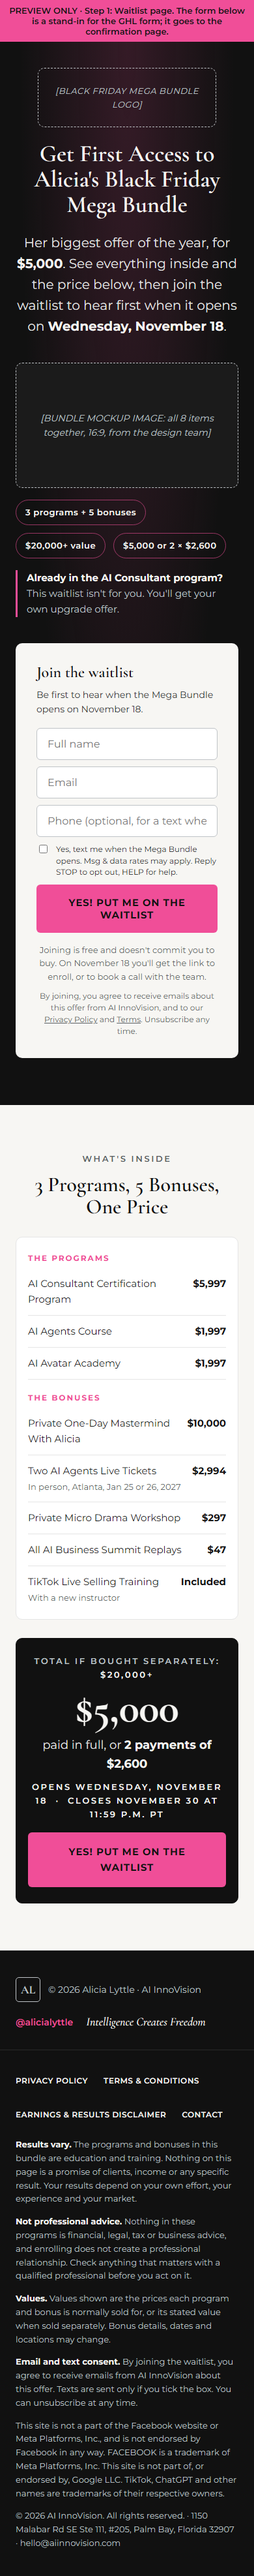
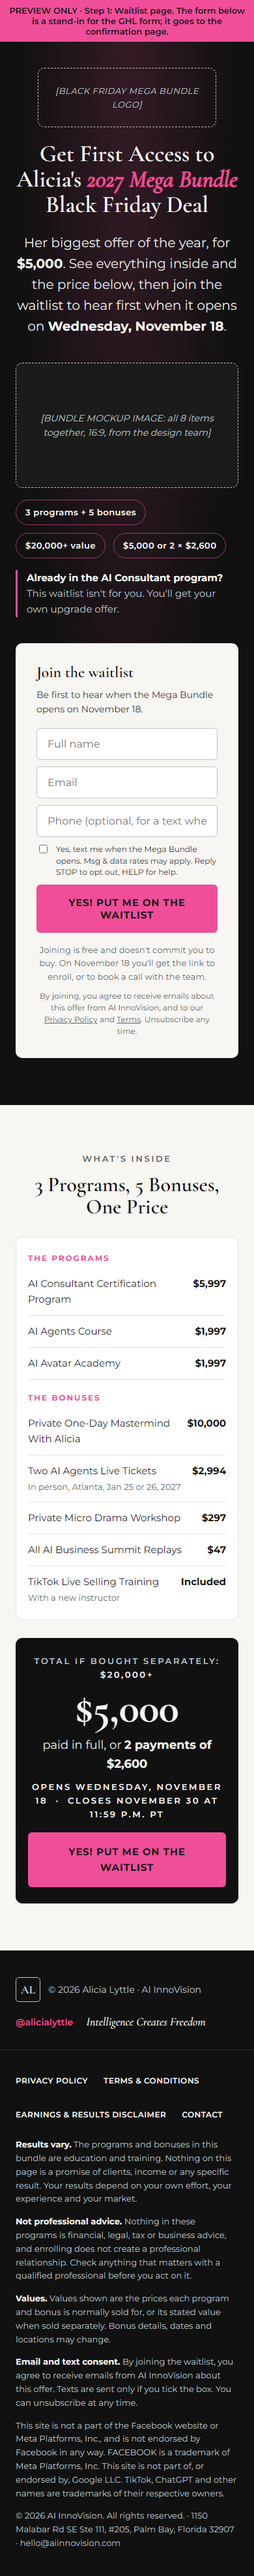
Waitlist headline: Get First Access to Alicia's 2027 Mega Bundle Black Friday Deal

Changed region(s): [[0.1538, 0.0623, 0.9231, 0.0934]]

diff --git a/funnels/mega-bundle-waitlist-nov-2026/design/waitlist.html b/funnels/mega-bundle-waitlist-nov-2026/design/waitlist.html
@@ -122,7 +122,7 @@ details summary::-webkit-details-marker{display:none}
 <div class="logo" id="bundle-logo"><!-- Replace with the logo image: <img src="LOGO-URL" alt="Alicia Lyttle: The Black Friday Mega Bundle"> -->
 <span>[BLACK FRIDAY MEGA BUNDLE LOGO]</span>
 </div>
-<h1 style="font-size: 56px; color: #F7F6F3; max-width: 980px">Get First Access to Alicia's Black Friday Mega Bundle</h1>
+<h1 style="font-size: 56px; color: #F7F6F3; max-width: 980px">Get First Access to Alicia's <em style="font-style: italic; color: #F04E98">2027 Mega Bundle</em> Black Friday Deal</h1>
 <p class="body" style="font-size: 20px; max-width: 760px">Her biggest offer of the year, for <strong style="color: #F7F6F3">$5,000</strong>. See everything inside and the price below, then join the waitlist to hear first when it opens on <strong style="color: #F7F6F3">Wednesday, November 18</strong>.</p>
 </div>
 <div style="display: flex; flex-wrap: wrap; gap: 40px; align-items: center">

diff --git a/funnels/mega-bundle-waitlist-nov-2026/preview/1-waitlist.html b/funnels/mega-bundle-waitlist-nov-2026/preview/1-waitlist.html
@@ -122,7 +122,7 @@ details summary::-webkit-details-marker{display:none}
 <div class="logo" id="bundle-logo"><!-- Replace with the logo image: <img src="LOGO-URL" alt="Alicia Lyttle: The Black Friday Mega Bundle"> -->
 <span>[BLACK FRIDAY MEGA BUNDLE LOGO]</span>
 </div>
-<h1 style="font-size: 56px; color: #F7F6F3; max-width: 980px">Get First Access to Alicia's Black Friday Mega Bundle</h1>
+<h1 style="font-size: 56px; color: #F7F6F3; max-width: 980px">Get First Access to Alicia's <em style="font-style: italic; color: #F04E98">2027 Mega Bundle</em> Black Friday Deal</h1>
 <p class="body" style="font-size: 20px; max-width: 760px">Her biggest offer of the year, for <strong style="color: #F7F6F3">$5,000</strong>. See everything inside and the price below, then join the waitlist to hear first when it opens on <strong style="color: #F7F6F3">Wednesday, November 18</strong>.</p>
 </div>
 <div style="display: flex; flex-wrap: wrap; gap: 40px; align-items: center">

diff --git a/funnels/mega-bundle-waitlist-nov-2026/ghl/waitlist.ghl.html b/funnels/mega-bundle-waitlist-nov-2026/ghl/waitlist.ghl.html
@@ -190,7 +190,7 @@ body { background: #111111; }
 <div class="logo" id="bundle-logo"><!-- Replace with the logo image: <img src="LOGO-URL" alt="Alicia Lyttle: The Black Friday Mega Bundle"> -->
 <span>[BLACK FRIDAY MEGA BUNDLE LOGO]</span>
 </div>
-<h1 style="font-size: 56px; color: #F7F6F3; max-width: 980px">Get First Access to Alicia's Black Friday Mega Bundle</h1>
+<h1 style="font-size: 56px; color: #F7F6F3; max-width: 980px">Get First Access to Alicia's <em style="font-style: italic; color: #F04E98">2027 Mega Bundle</em> Black Friday Deal</h1>
 <p class="body" style="font-size: 20px; max-width: 760px">Her biggest offer of the year, for <strong style="color: #F7F6F3">$5,000</strong>. See everything inside and the price below, then join the waitlist to hear first when it opens on <strong style="color: #F7F6F3">Wednesday, November 18</strong>.</p>
 </div>
 <div style="display: flex; flex-wrap: wrap; gap: 40px; align-items: center">

diff --git a/funnels/mega-bundle-waitlist-nov-2026/copy/waitlist-page.md b/funnels/mega-bundle-waitlist-nov-2026/copy/waitlist-page.md
@@ -3,7 +3,7 @@
 Status: DRAFT for review (2026-11-05). Written by us from Michael's team brief + Loom. Design: match the AI Life Summit pages (black #111111, pink #F04E98, off-white #F7F6F3, Cormorant Garamond headlines, Montserrat body, same nav and footer).
 Rules applied: price and contents shown up front (Nehemiah), verified prices only, no income promises, one deadline format. Anything not verified is in [BRACKETS].
 
-> **2026-11-05: SHORT VERSION APPROVED.** After comparing with last year's one-screen waitlist (`reference/model-funnels/black-friday-waitlist-2025/`), the page was cut to: Nav · Hero + form (with the consultant line and "On November 18 you'll get the link to enroll, or to book a call" under the form) · What's inside as a one-line-per-item list + price box · Footer. **Later the same day:** nav bar removed; a logo slot sits at the top; hero = headline "Get First Access to Alicia's Black Friday Mega Bundle" + subheadline "Her biggest offer of the year, for $5,000. See everything inside and the price below, then join the waitlist to hear first when it opens on Wednesday, November 18.", then the bundle mockup slot + chips + consultant line beside the form. Sections 5 to 9 below (What happens next, For you, Meet Alicia, FAQ, Final CTA) are **no longer on the page**; item descriptions are dropped. Kept below for reference only. The built page is `design/waitlist.html`.
+> **2026-11-05: SHORT VERSION APPROVED.** After comparing with last year's one-screen waitlist (`reference/model-funnels/black-friday-waitlist-2025/`), the page was cut to: Nav · Hero + form (with the consultant line and "On November 18 you'll get the link to enroll, or to book a call" under the form) · What's inside as a one-line-per-item list + price box · Footer. **Later the same day:** nav bar removed; a logo slot sits at the top; hero = headline "Get First Access to Alicia's 2027 Mega Bundle Black Friday Deal" (chosen by the user, modelled on last year's; "2027 Mega Bundle" in pink italic) + subheadline "Her biggest offer of the year, for $5,000. See everything inside and the price below, then join the waitlist to hear first when it opens on Wednesday, November 18.", then the bundle mockup slot + chips + consultant line beside the form. Sections 5 to 9 below (What happens next, For you, Meet Alicia, FAQ, Final CTA) are **no longer on the page**; item descriptions are dropped. Kept below for reference only. The built page is `design/waitlist.html`.
 
 ---
 
